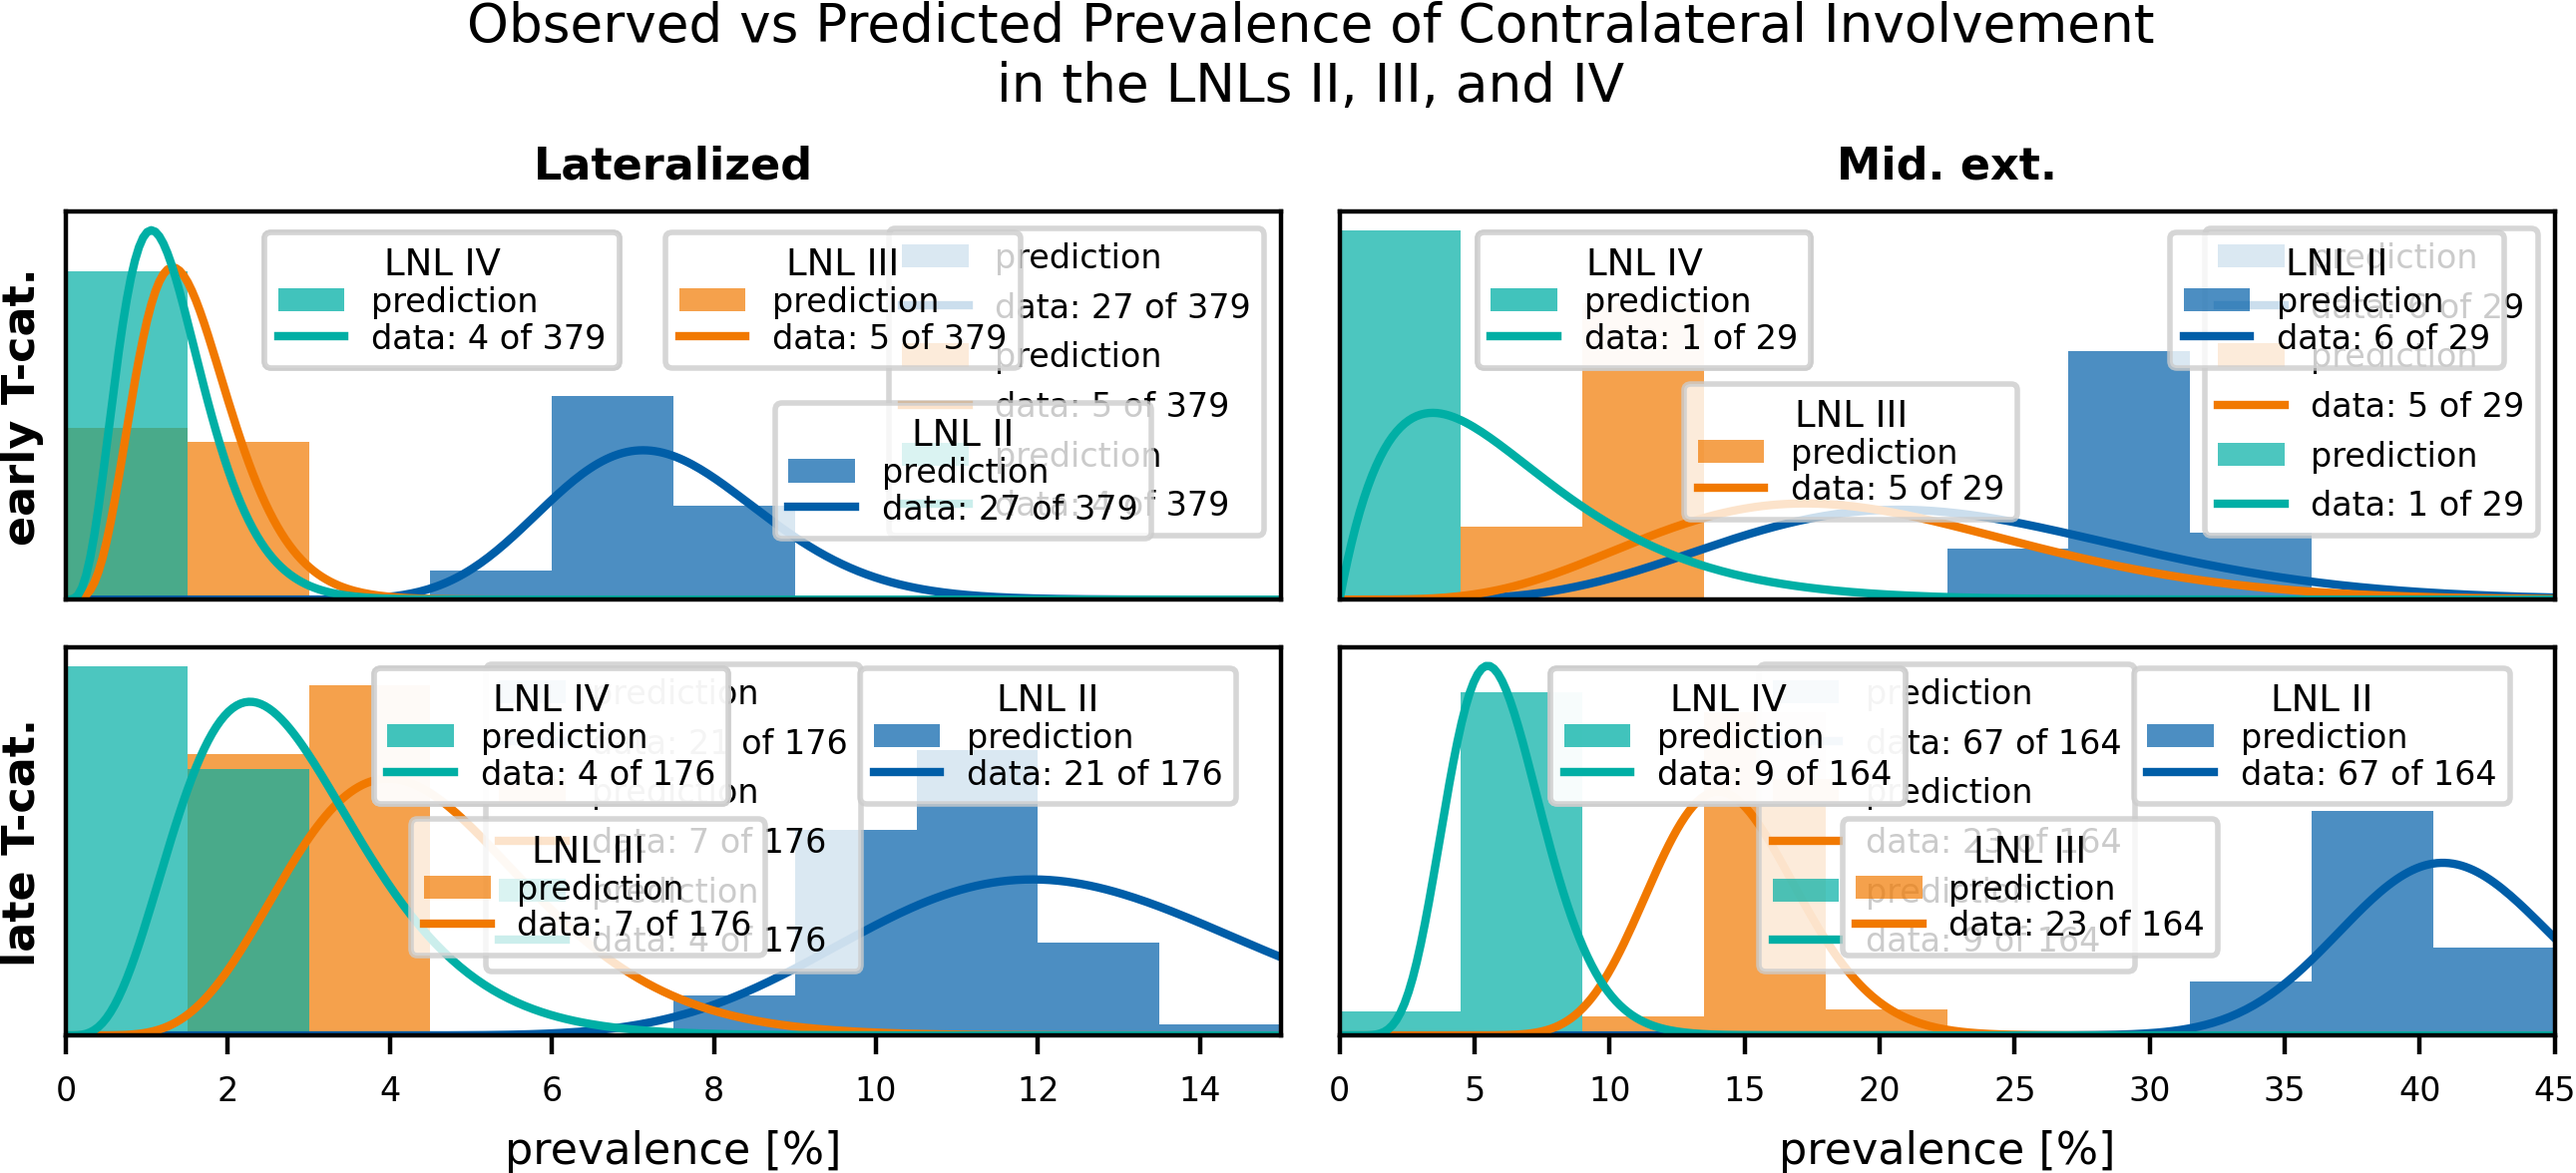
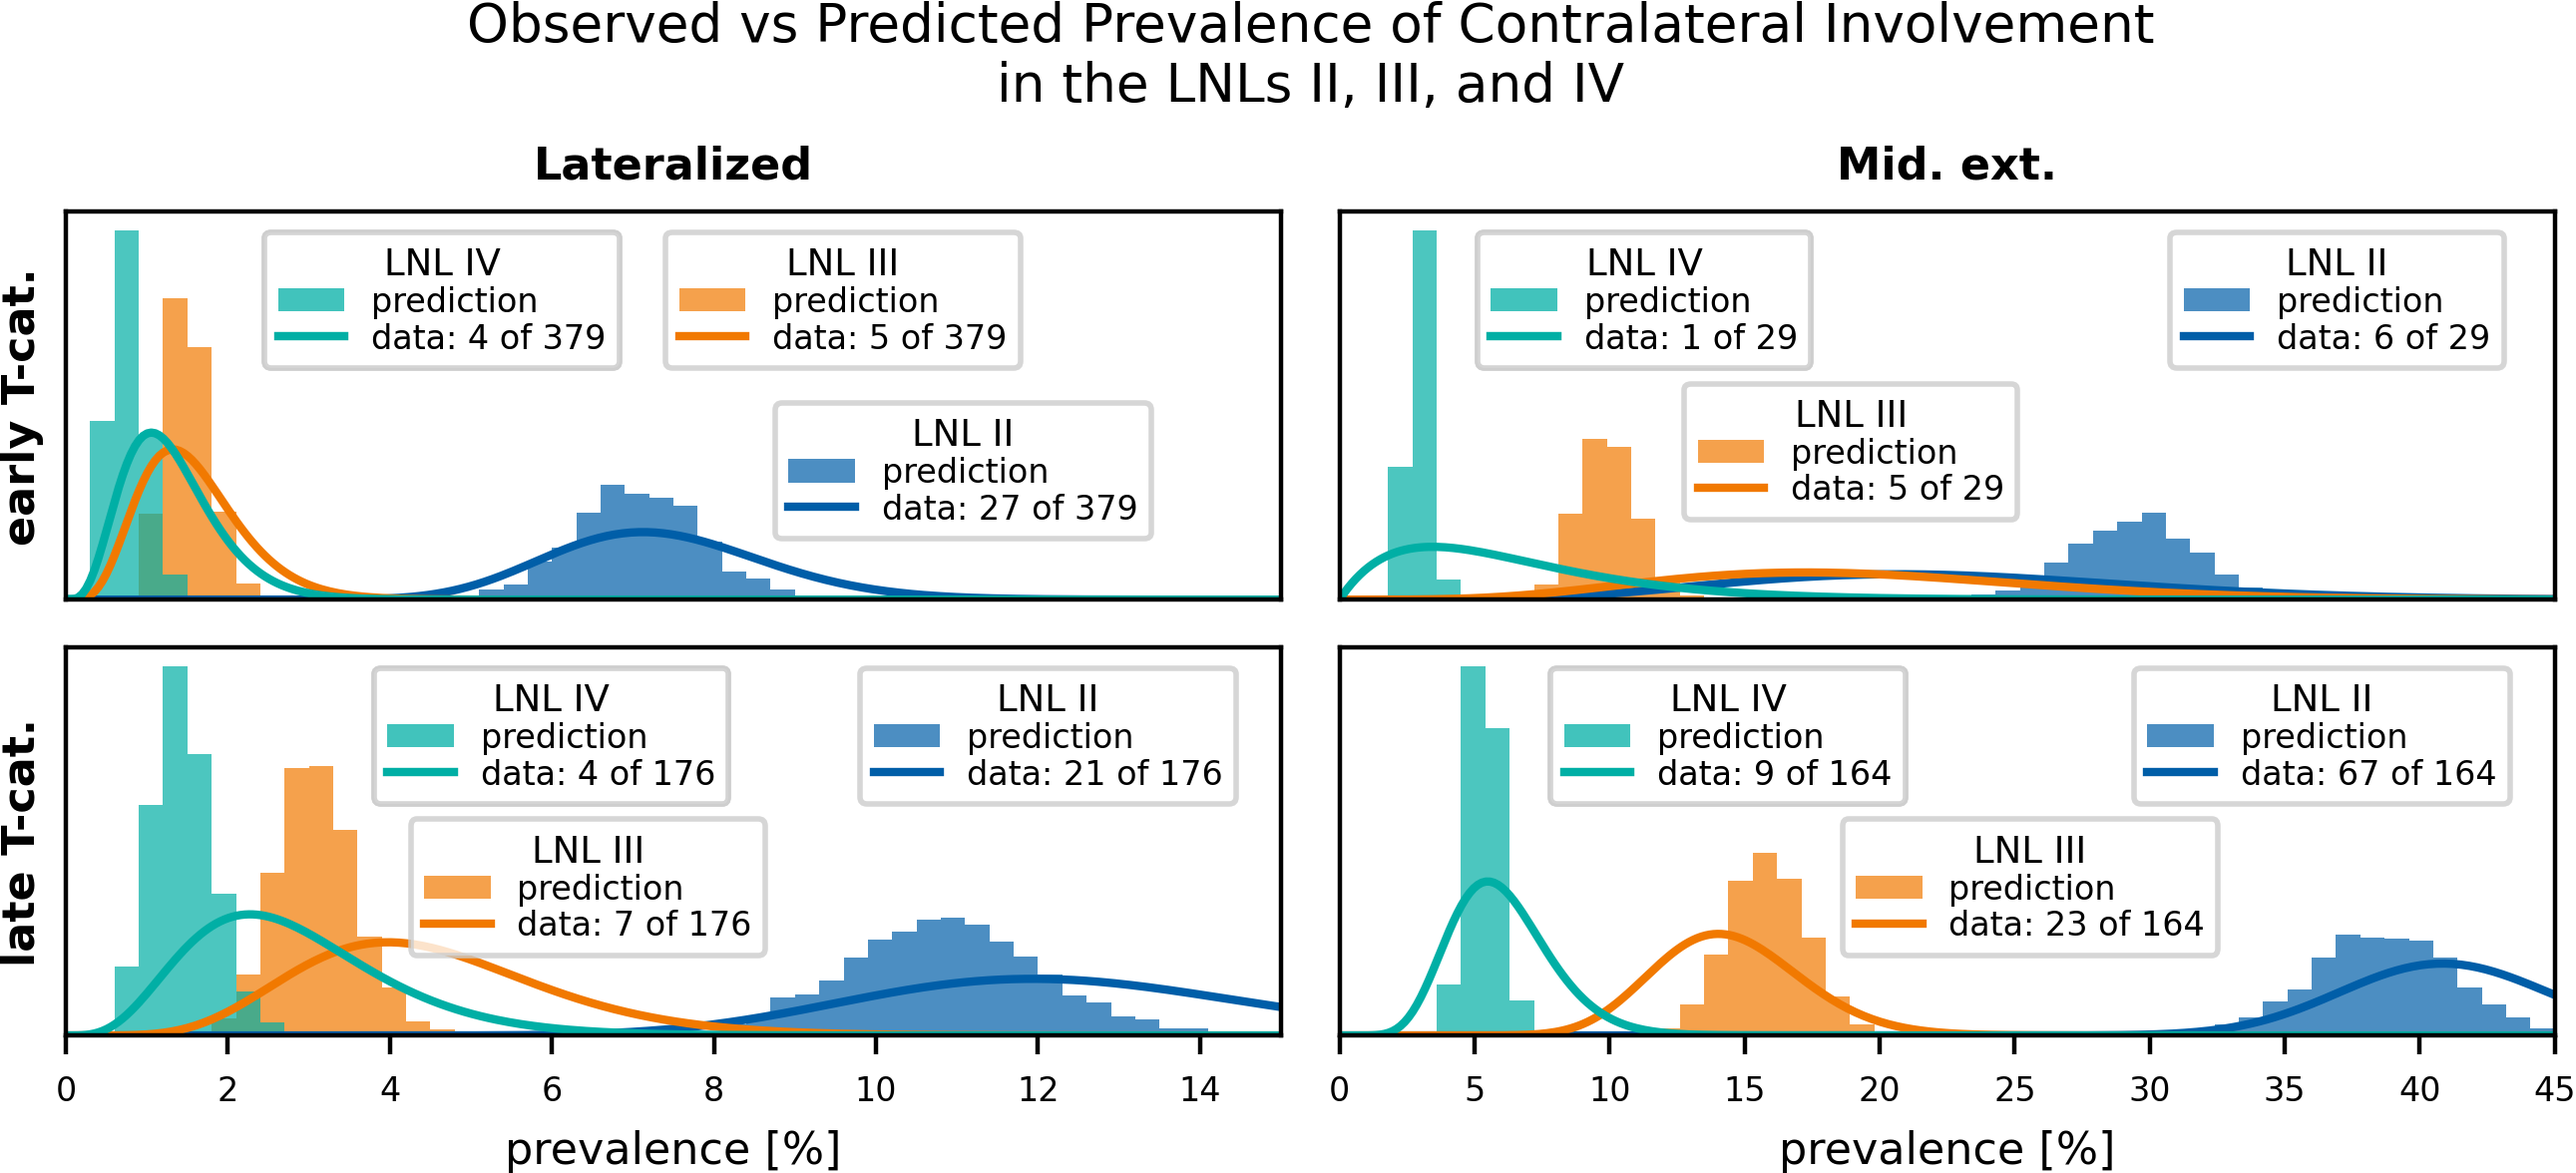
work on marginal over beta posteriors

diff --git a/scripts/marginalize_midext.py b/scripts/marginalize_midext.py
@@ -2,15 +2,17 @@
 Marginalize over *observd* midline extension status using sums of beta posteriors.
 """
 
-from pathlib import Path
+from dataclasses import dataclass
+from typing import Any, TypeVar
 import matplotlib.pyplot as plt
+from matplotlib.axes import Axes as MPLAxes
 import pandas as pd
 import numpy as np
 from scipy.stats import beta
-from scipy import integrate
 from lyscripts.data import accessor  # noqa: F401
 from lyscripts.scenario import Scenario
 from lyscripts.plot.utils import BetaPosterior
+from lyscripts.compute.prevalences import compute_observed_prevalence, get_modality_subset
 
 try:
     from . import paths, shared
@@ -19,13 +21,13 @@ except ImportError:
     import shared
 
 
-def max_possible_matches(does_match, num_total):
+def max_possible_matches(num_match: int, num_total: int) -> int:
     """Maximum number of additional possible matches."""
-    return min(num_total, does_match.sum()) + 1
+    return min(num_total, num_match) + 1
 
-def min_possible_matches(does_match, num_total):
+def min_possible_matches(num_not_match: int, num_total: int) -> int:
     """Minimum number of additional possible matches."""
-    return min(num_total, max(0, num_total - (~does_match).sum()))
+    return min(num_total, max(0, num_total - num_not_match))
 
 
 def compute_possible_observed_prevalences(
@@ -33,46 +35,63 @@ def compute_possible_observed_prevalences(
 ) -> np.ndarray:
     """Extract possible combinations of prevalences."""
     # when looking at the data, we always consider both sides
-    is_uni = scenario.is_uni
-    scenario.is_uni = False
-    diagnosis_pattern = scenario.get_pattern(get_from="diagnosis", modality=modality)
-
-    # reset `is_uni` to the original value. Otherwise hash computation will fail.
-    scenario.is_uni = is_uni
+    base_num_match, base_num_total = compute_observed_prevalence(data, scenario)
 
     has_t_stage = data.ly.t_stage.isin(scenario.t_stages)
-    has_midext = data.ly.is_midext(scenario.midext)
-    eligible_data = data.loc[has_t_stage & has_midext].reset_index()
-    does_pattern_match = eligible_data.ly.match(diagnosis_pattern, modality)
-    base_num_total = len(eligible_data)
-
-    try:
-        matching_data = eligible_data.loc[does_pattern_match]
-        base_num_match = len(matching_data)
-    except KeyError:
-        # return X, X if no actual pattern was selected
-        base_num_match = base_num_total
+    modality = get_modality_subset(scenario.diagnosis).pop()
+    diagnosis_pattern = scenario.get_pattern(get_from="diagnosis", modality=modality)
 
     has_unknown_midext = data.ly.midext.isna()
     unknown_midext_data = data.loc[has_t_stage & has_unknown_midext].reset_index()
     does_pattern_match = unknown_midext_data.ly.match(diagnosis_pattern, modality)
-    num_eligible = len(unknown_midext_data)
+    unknown_match = does_pattern_match.sum()
+    unknown_total = len(unknown_midext_data)
 
+    return compute_match_total_combinations(
+        base_match=base_num_match,
+        base_total=base_num_total,
+        unknown_match=unknown_match,
+        unknown_total=unknown_total,
+    )
+
+
+def compute_match_total_combinations(
+    base_total: int,
+    base_match: int,
+    unknown_match: int,
+    unknown_total: int,
+) -> np.ndarray:
+    """Compute all possible combinations of match/total pairs."""
     results = []
-    for pot_num_total in range(num_eligible + 1):
+    for pot_num_total in range(unknown_total + 1):
         for pot_num_match in range(
-            min_possible_matches(does_pattern_match, pot_num_total),
-            max_possible_matches(does_pattern_match, pot_num_total),
+            min_possible_matches(unknown_total - unknown_match, pot_num_total),
+            max_possible_matches(unknown_match, pot_num_total),
         ):
             results.append([
-                base_num_match + pot_num_match,
-                base_num_total + pot_num_total,
+                base_match + pot_num_match,
+                base_total + pot_num_total,
             ])
 
     return np.array(results)
 
 
-def summed_beta_pdfs(
+def prepare_betas(
+    nums_match: np.ndarray,
+    nums_total: np.ndarray,
+):
+    """Prepare beta posteriors for each possible observed prevalence."""
+    if len(nums_match.shape) == 1:
+        nums_match = nums_match[None, :]
+
+    if len(nums_total.shape) == 1:
+        nums_total = nums_total[None, :]
+
+    nums_fail = nums_total - nums_match
+    return beta(nums_match + 1, nums_fail + 1)
+
+
+def summed_beta_pdf(
     x: np.ndarray,
     nums_match: np.ndarray,
     nums_total: np.ndarray,
@@ -81,22 +100,43 @@ def summed_beta_pdfs(
     if len(x.shape) == 1:
         x = x[:, None]
 
-    if len(nums_match.shape) == 1:
-        nums_match = nums_match[None, :]
-
-    if len(nums_total.shape) == 1:
-        nums_total = nums_total[None, :]
-
-    nums_fail = nums_total - nums_match
-
-    beta_pdfs = beta.pdf(x, nums_match + 1, nums_fail + 1)
+    beta_pdfs = prepare_betas(nums_match, nums_total).pdf(x)
     summed_pdfs = beta_pdfs.sum(axis=1)
-
     return summed_pdfs / beta_pdfs.shape[1]
 
 
+def summed_beta_cdf(
+    x: np.ndarray,
+    nums_match: np.ndarray,
+    nums_total: np.ndarray,
+) -> np.ndarray:
+    """Sum beta CDFs."""
+    if len(x.shape) == 1:
+        x = x[:, None]
+
+    beta_cdfs = prepare_betas(nums_match, nums_total).cdf(x)
+    summed_cdfs = beta_cdfs.sum(axis=1)
+    return summed_cdfs / beta_cdfs.shape[1]
+
+
+FloatOrArrayT = TypeVar("FloatOrArrayT", float, np.ndarray)
+
+def summed_beta_ppf(
+    q: FloatOrArrayT,
+    nums_match: np.ndarray,
+    nums_total: np.ndarray,
+) -> FloatOrArrayT:
+    """PPF of summed CDFs."""
+    x = np.linspace(0, 1, 1000)
+    y = summed_beta_cdf(x, nums_match, nums_total)
+
+    return np.interp(q, y, x)
+
+
+@dataclass
 class SummedBetaPosterior(BetaPosterior):
     """Subclass for storing plot config of sum of beta posteriors."""
+
     num_success: np.ndarray
     num_total: np.ndarray
 
@@ -104,18 +144,52 @@ class SummedBetaPosterior(BetaPosterior):
     def from_hdf5(*args, **kwargs) -> None:
         raise NotImplementedError
 
+    def _get_label(self) -> str:
+        min_success = self.num_success.min()
+        max_success = self.num_success.max()
+        min_total = self.num_total.min()
+        max_total = self.num_total.max()
+        return (
+            f"data: {min_success} to {max_success} "
+            f"of {min_total} to {max_total}"
+        )
+
     @property
     def num_fail(self) -> np.ndarray:
         return self.num_total - self.num_success
 
     def pdf(self, x: np.ndarray) -> np.ndarray:
-        return summed_beta_pdfs(x, self.num_success, self.num_total)
+        return summed_beta_pdf(
+            (x - self.offset) / self.scale,
+            self.num_success,
+            self.num_total,
+        ) / self.scale
 
     def left_percentile(self, percent: float) -> float:
-        raise NotImplementedError
+        return summed_beta_ppf(
+            percent / 100.,
+            self.num_success,
+            self.num_total,
+        ) * self.scale + self.offset
 
     def right_percentile(self, percent: float) -> float:
-        raise NotImplementedError
+        return summed_beta_ppf(
+            1 - (percent / 100.),
+            self.num_success,
+            self.num_total,
+        ) * self.scale + self.offset
+
+    def draw(self, axes: MPLAxes, resolution: int = 300, **defaults) -> Any:
+        """Draw the PDF of the summed beta distributions into ``axes``."""
+        left, right = axes.get_xlim()
+        x = np.linspace(left, right, resolution)
+        y = self.pdf(x)
+
+        plot_kwargs = defaults["plot"].copy()
+        plot_kwargs.update(self.kwargs)
+        plot_kwargs["label"] = self.label
+
+        return axes.plot(x, y, **plot_kwargs)
 
 
 def main():

diff --git a/scripts/shared.py b/scripts/shared.py
@@ -106,29 +106,3 @@ def get_figsizes(
         "savefig.bbox": "tight",
         "savefig.pad_inches": pad,
     }
-
-
-def split_legends(
-    ax,
-    titles: list[str],
-    locs: list[tuple[float, float]],
-    **kwargs,
-) -> None:
-    """Separate the legends of `ax` into separate ones with `titles` and at `locs`."""
-    legend_kwargs = {
-        "title_fontsize": "small",
-        "labelspacing": 0.1,
-    }
-    legend_kwargs.update(kwargs)
-
-    handles, labels = ax.get_legend_handles_labels()
-    for i, (title, loc) in enumerate(zip(titles, locs)):
-        legend = ax.legend(
-            handles[i * 2 : (i + 1) * 2],
-            labels[i * 2 : (i + 1) * 2],
-            loc="upper left",
-            bbox_to_anchor=loc,
-            title=title,
-            **legend_kwargs,
-        )
-        ax.add_artist(legend)
